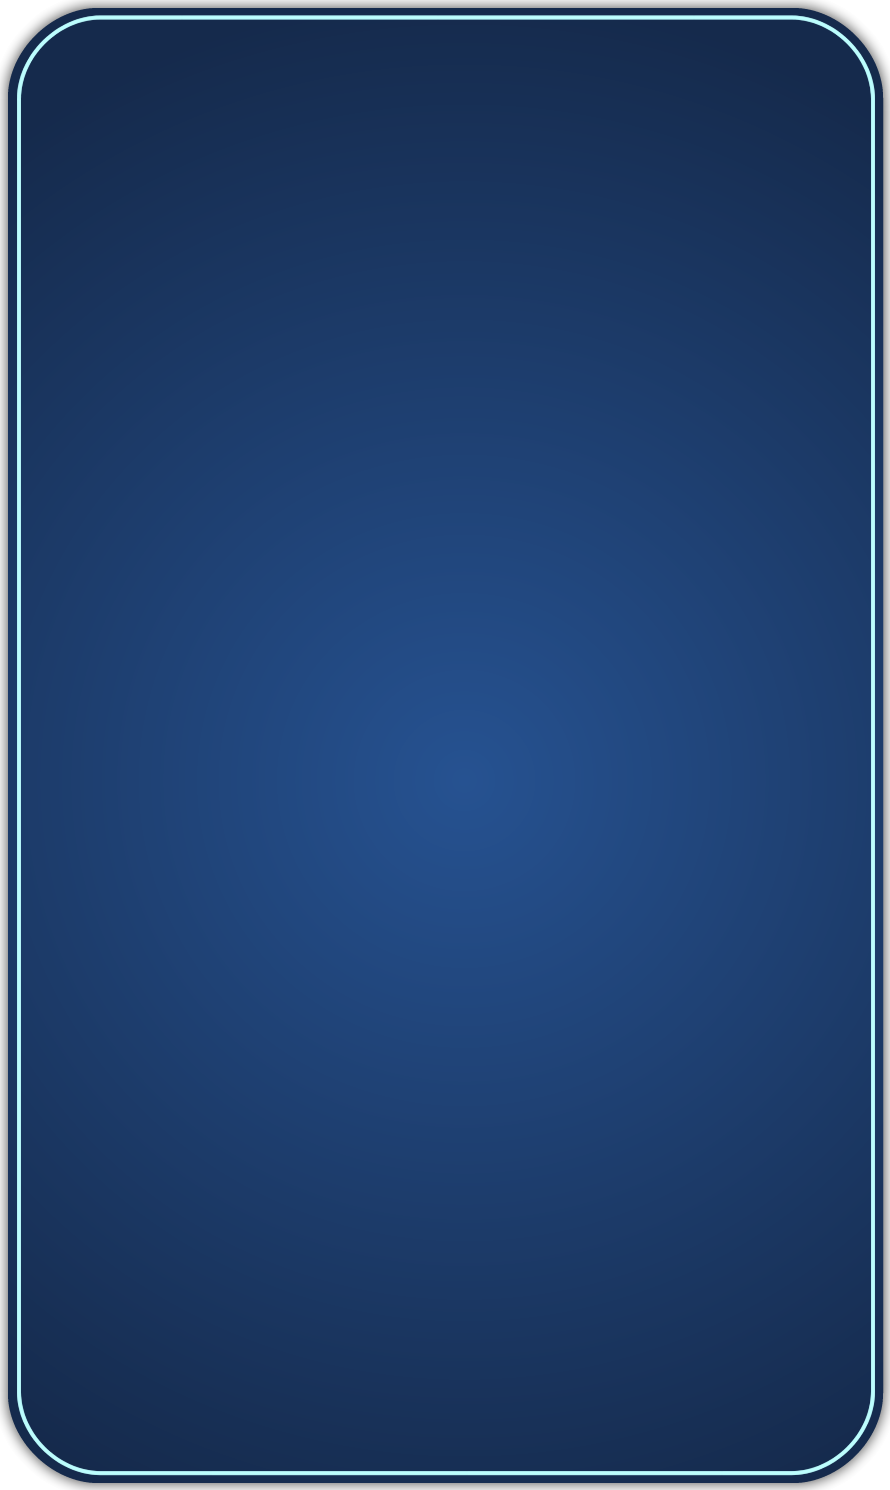
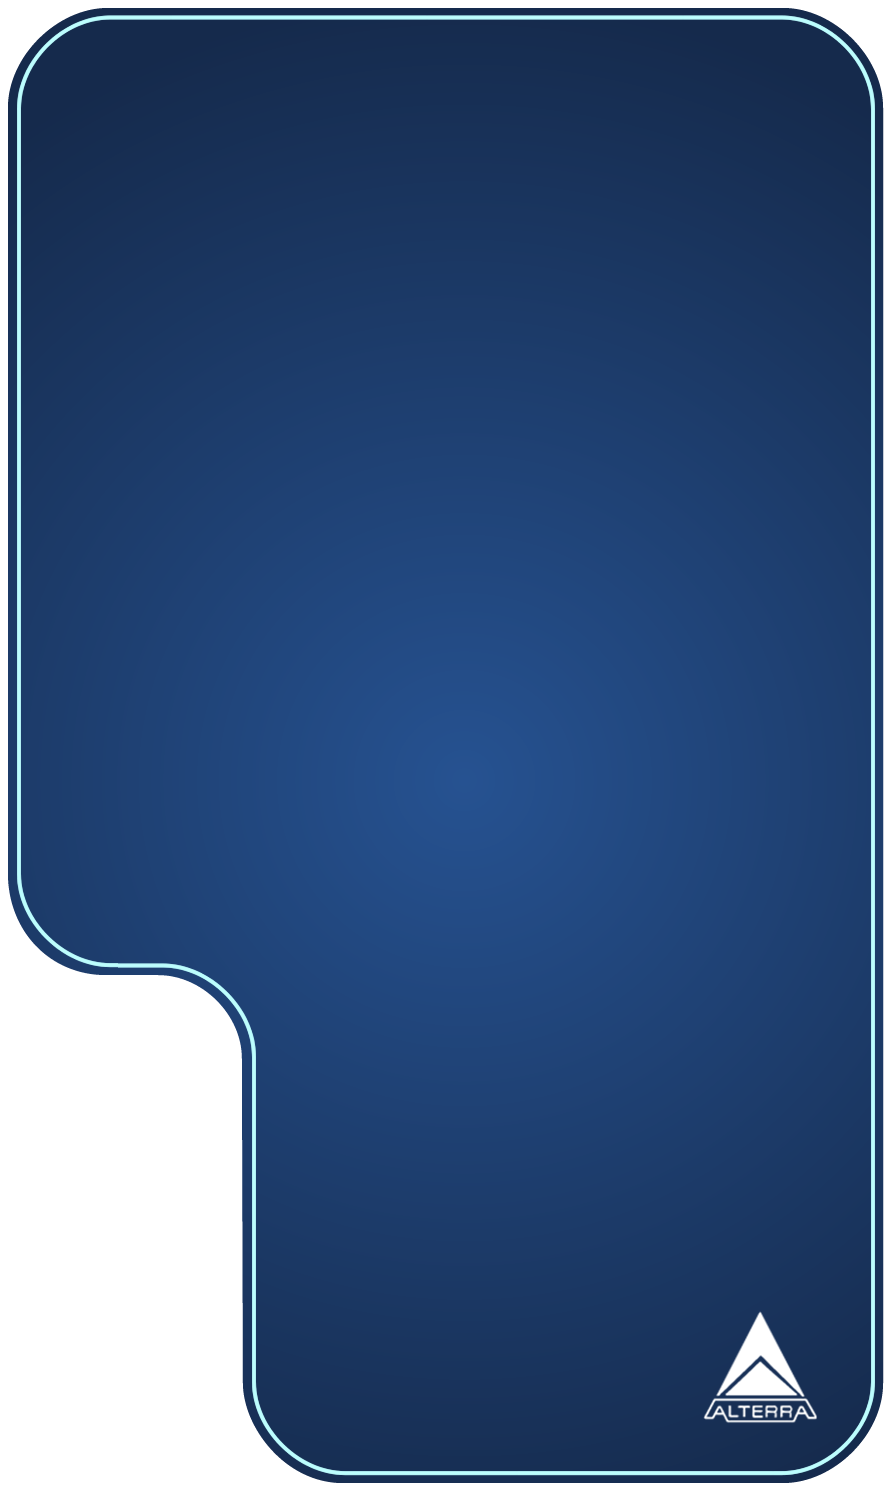
WIP on the Habitat Control Panel

Changed region(s): [[0.0, 0.0, 1.0, 1.0], [0.7888, 0.8644, 0.9101, 0.957]]

diff --git a/SubnauticaModSystem/HabitatControlPanel/HabitatControlPanel.cs b/SubnauticaModSystem/HabitatControlPanel/HabitatControlPanel.cs
@@ -52,6 +52,9 @@ namespace HabitatControlPanel
 		private void Initialize()
 		{
 			background.sprite = ImageUtils.LoadSprite(Mod.GetAssetPath("Background.png"));
+
+			Destroy(transform.Find("mesh").gameObject);
+
 			initialized = true;
 		}
 
@@ -188,6 +191,12 @@ namespace HabitatControlPanel
 				c.localPosition += new Vector3(0, 0, 0.01f);
 				Logger.Log("Screen depth=" + c.localPosition.z);
 			}
+
+			if (Input.GetKeyDown(KeyCode.X))
+			{
+				var active = background.gameObject.activeSelf;
+				background.gameObject.SetActive(!active);
+			}
 		}
 		
 		private void PrintScreenSize()
@@ -245,6 +254,7 @@ namespace HabitatControlPanel
 			GameObject.Destroy(prefab.GetComponent<PictureFrame>());
 			var screen = prefab.transform.Find("Screen").gameObject;
 			screen.transform.localEulerAngles = new Vector3(0, 0, 90);
+			screen.SetActive(false);
 			var mesh = prefab.transform.Find("mesh").gameObject;
 			mesh.transform.localEulerAngles = new Vector3(0, 0, 90);
 			var trigger = prefab.transform.Find("Trigger").gameObject;
@@ -256,7 +266,7 @@ namespace HabitatControlPanel
 			GameObject powerCellSlotPrefab = GetPowerCellSlotModel();
 			GameObject powerCellSlot = GameObject.Instantiate(powerCellSlotPrefab);
 			powerCellSlot.transform.SetParent(prefab.transform, false);
-			powerCellSlot.transform.localPosition = new Vector3(0.44f, -0.71f, -0.09f);
+			powerCellSlot.transform.localPosition = new Vector3(0.44f, -0.7f, -0.13f);
 			powerCellSlot.transform.localEulerAngles = new Vector3(61, 180, 0);
 
 			//GameObject beaconPrefab = Resources.Load<GameObject>("WorldEntities/Tools/Beacon");
